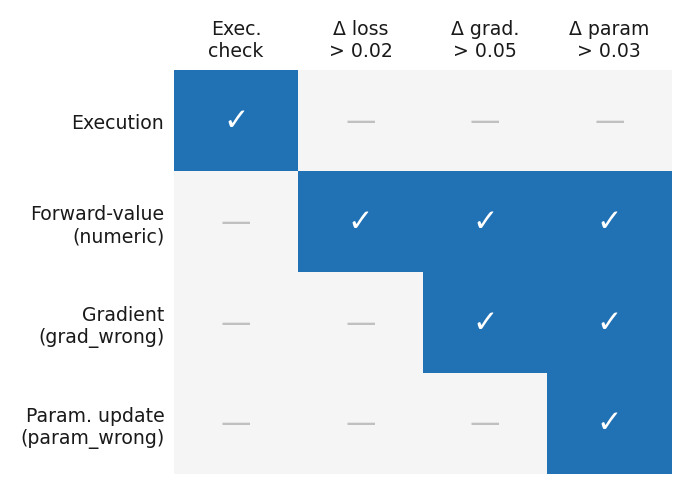
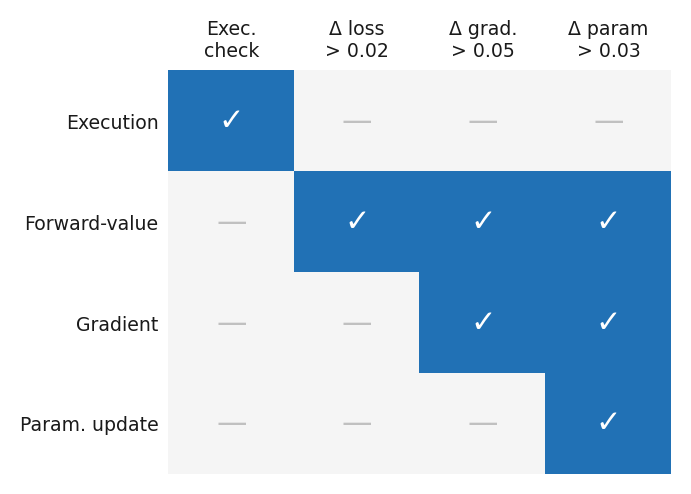
Clean up figure labels and fix unexplained jargon in paper text
- Remove internal code names (grad_wrong, param_wrong) from Fig. 4 row
  labels, leaving clean fault-type names
- Replace "teacher-forced coupling" / "free-running coupling" with plain
  descriptions that explain the procedure
- Replace "NU-07 category" with "mixed-precision overflow faults"
- Remove "feedback-loop amplification" and "five-step comparison window"
  (unexplained internal terms)
- Simplify "diagnostic resolution" → "whether the signals distinguish"
- Simplify "the operative difference" and "the premise behind"

Claude-Session: https://claude.ai/code/session_01D79xBU2idFsiyBvAHVr4F9

diff --git a/conference_101719.tex b/conference_101719.tex
@@ -78,7 +78,7 @@ Training code does not satisfy this assumption. Fig.~\ref{fig:gradient-drift} sh
 \begin{figure}[t]
 \centering
 \includegraphics[width=\columnwidth]{figures/gradient_drift.pdf}
-\caption{Per-step divergence of three diagnostic signals under free-running coupling, for two fault classes (72 conditions across four model families). The forward-loss signal (blue) stays below its detection threshold for tens of steps, while the gradient and parameter signals cross theirs at step~1.}
+\caption{Per-step divergence of three diagnostic signals when the translated model runs independently of the source, for two fault classes (72 conditions across four model families). The forward-loss signal (blue) stays below its detection threshold for tens of steps, while the gradient and parameter signals cross theirs at step~1.}
 \label{fig:gradient-drift}
 \end{figure}
 
@@ -193,7 +193,7 @@ The evaluation answers four questions.
   \item[\textbf{RQ4}] Does the repair loop generalize to a second target framework and to different prompt configurations?
 \end{itemize}
 
-RQ1 compares against external systems, RQ2 examines the diagnostic resolution of the signals, RQ3 removes parts of our own feedback, and RQ4 changes the target framework and the prompt.
+RQ1 compares against external systems, RQ2 examines whether the signals distinguish fault classes, RQ3 removes parts of our own feedback, and RQ4 changes the target framework and the prompt.
 
 The fault categories come from real migration failures rather than from an arbitrary mutation catalogue. We migrated PyTorch training programs to the two target paths and recorded the cases that failed. The recurring failures fall into 25 categories, grouped by the stage at which each one surfaced and by the framework mechanism responsible. Each category is then reproduced by injecting it into a known-correct implementation, which fixes the ground truth for every instance and makes localization measurable; the categories are observed, and the instances are controlled. That trade buys the ground truth at the cost of the variability an uncurated failure would carry. Each category is instantiated on two model families, giving a pool of 50 instances over CNN, image MLP, Transformer classifier, and tiny causal LM. The JAX pool is built the same way and contributes six MLP and CNN faults across the three stages.
 
@@ -215,7 +215,7 @@ Table~\ref{tab:main-results} reports the results under the shared four-attempt b
 
 The two partitions locate the gain. By stage, LADDER repairs all 16 gradient and update faults against 13 for MatchFixAgent and 14 for direct LLM repair. By depth, every method handles faults repairable inside the translated program, and the methods separate as the required edit moves into the adapter: at the deepest level, which reaches differentiation and optimizer code, LADDER repairs 4/4 while MatchFixAgent repairs 1/4 and SWE-agent 3/4. Those four instances are the two categories that misalign gradients with the parameters they belong to, and the category that no baseline repairs at all is one of them.
 
-The model families separate the methods differently. LADDER is the only one that repairs every instance of all four, and each baseline concentrates its losses on a different family: six of direct LLM repair's ten failures are on the image MLP, while MatchFixAgent's remaining three are split between the Transformer classifier and the image MLP. No single architecture is hard for every method, which makes the feedback rather than the model the operative difference.
+The model families separate the methods differently. LADDER is the only one that repairs every instance of all four, and each baseline concentrates its losses on a different family: six of direct LLM repair's ten failures are on the image MLP, while MatchFixAgent's remaining three are split between the Transformer classifier and the image MLP. No single architecture is hard for every method, so the feedback explains the gap better than the model does.
 
 Locating the failing stage also makes the repair cheaper. Measured per repair achieved, LADDER spends 3.8K tokens and 21.8 seconds against 110.7K tokens and 74.2 seconds for MatchFixAgent, a $29\times$ reduction in tokens and a $3.4\times$ reduction in time. Fig.~\ref{fig:cost-quality} shows the joint quality--cost position. Section~\ref{sec:ablations} removes parts of the feedback to establish where the gain comes from.
 
@@ -256,20 +256,20 @@ MatchFixAgent$^\dagger$ & 20/20 & 14/14 & 13/16 & 26/26 & 20/20 & 1/4 & 13/13 & 
 \label{sec:fault-characterization}
 
 \paragraph{Fault signatures.}
-Each fault type triggers a distinct subset of the three detection layers under teacher-forced coupling, which isolates each fault's signature from feedback-loop amplification. Fig.~\ref{fig:fault-signatures} summarizes the detection matrix across the four model families. Execution faults fire only the runtime check; numerical (forward-value) faults cross all three thresholds because an incorrect forward pass cascades through the gradient and parameter comparisons; gradient faults cross the gradient and parameter thresholds but leave the forward loss unchanged; and parameter-update faults cross only the parameter threshold. The diagonal structure confirms that each added signal detects exactly one more fault class, which is the premise behind LADDER's ordered diagnosis.
+Each fault type triggers a distinct subset of the three detection layers. To isolate each fault's effect from error accumulation over multiple steps, we feed the translated model the source model's outputs at each stage (teacher forcing) and measure divergence on a single step. Fig.~\ref{fig:fault-signatures} summarizes the detection matrix across the four model families. Execution faults fire only the runtime check; numerical (forward-value) faults cross all three thresholds because an incorrect forward pass cascades through the gradient and parameter comparisons; gradient faults cross the gradient and parameter thresholds but leave the forward loss unchanged; and parameter-update faults cross only the parameter threshold. The diagonal structure confirms that each added signal detects exactly one more fault class, which is why LADDER checks them in order.
 
 \begin{figure}[tb]
 \centering
 \includegraphics[width=0.85\columnwidth]{figures/fault_signatures.pdf}
-\caption{Detection matrix under teacher-forced coupling. Each row is a fault type, each column a detection layer; a check mark means the threshold was crossed for at least one of the four model families. The staircase pattern shows that each signal adds exactly one fault class to the detectable set.}
+\caption{Detection matrix when the translated model is fed the source outputs at each stage (teacher forcing). Each row is a fault type, each column a detection layer; a check mark means the threshold was crossed for at least one model family. The staircase pattern shows that each signal adds exactly one fault class to the detectable set.}
 \label{fig:fault-signatures}
 \end{figure}
 
 \paragraph{Detection latency.}
-Fig.~\ref{fig:gradient-drift} plots the per-step divergence for gradient and parameter-update faults across 72 conditions (four model families $\times$ nine fault variants $\times$ two fault classes). Gradient faults cross the $\Delta\text{grad}>0.05$ threshold within the first training step in every condition, while parameter-update faults cross $\Delta\text{param}>0.03$ by step two. Both signals stabilize well before the five-step comparison window ends, so a short controlled run suffices for detection.
+Fig.~\ref{fig:gradient-drift} plots the per-step divergence for gradient and parameter-update faults across all 72 conditions in the pool (four model families, each with multiple fault variants from the 25 categories). Gradient faults cross the $\Delta\text{grad}>0.05$ threshold within the first training step in every condition, while parameter-update faults cross $\Delta\text{param}>0.03$ by step two. Both signals stabilize within the first few steps, so a short controlled run suffices for detection.
 
 \paragraph{Fault localization.}
-LADDER's three-layer diagnosis localizes each fault to one of three classes---execution, numerical, or gradient/update---by reporting the first threshold that fails in the ordered check. On the full 50-instance pool, this rule classifies 48 of 50 faults correctly (96\% accuracy). The two misclassified instances are both numerical faults from the NU-07 category (mixed-precision overflow), which crash before producing a loss value and are therefore caught by the execution check instead of the forward-value comparison. All execution faults (20/20) and all gradient/update faults (16/16) are localized without error.
+LADDER's three-layer diagnosis localizes each fault to one of three classes---execution, numerical, or gradient/update---by reporting the first threshold that fails in the ordered check. On the full 50-instance pool, this rule classifies 48 of 50 faults correctly (96\% accuracy). The two misclassified instances are both mixed-precision overflow faults that crash before producing a loss value and are therefore caught by the execution check instead of the forward-value comparison. All execution faults (20/20) and all gradient/update faults (16/16) are localized without error.
 
 \subsection{RQ3: Ablation of the Layered Feedback}
 \label{sec:ablations}

diff --git a/figures/make_fault_signatures.py b/figures/make_fault_signatures.py
@@ -27,7 +27,7 @@ from matplotlib.colors import LinearSegmentedColormap
 # - numeric:    exec_fail=0, loss=1.16, grad=0.72, param=2.96
 # - grad_wrong: exec_fail=0, loss=3.8e-6, grad>0.05@step1, param=0.50+
 # - param_wrong:exec_fail=0, loss=3.8e-6, grad<0.05, param=0.19-0.99
-FAULTS  = ["Execution", "Forward-value\n(numeric)", "Gradient\n(grad_wrong)", "Param. update\n(param_wrong)"]
+FAULTS  = ["Execution", "Forward-value", "Gradient", "Param. update"]
 METRICS = ["Exec.\ncheck", "Δ loss\n> 0.02", "Δ grad.\n> 0.05", "Δ param\n> 0.03"]
 
 # rows = fault types, cols = detection metrics
